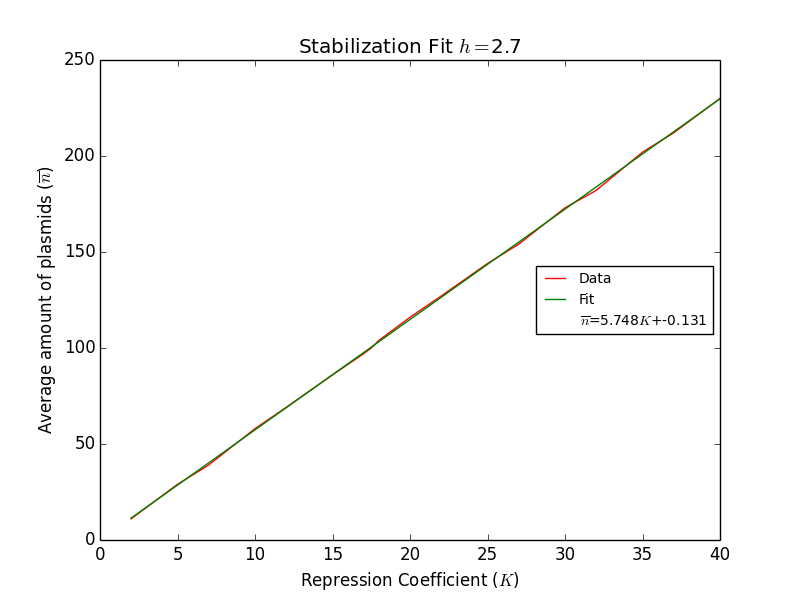
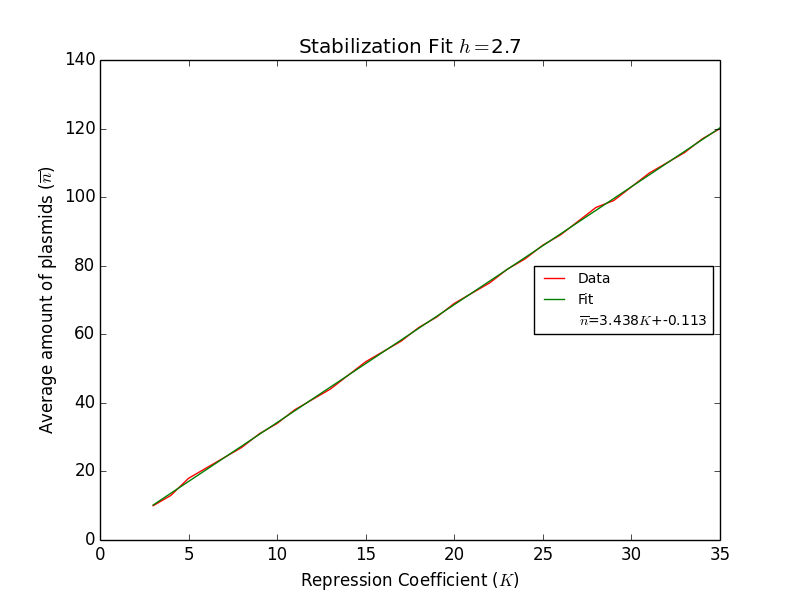
MoreHs

diff --git a/Stabilization/code_stable.py b/Stabilization/code_stable.py
@@ -132,7 +132,7 @@ def exe(inA, h, kA):
     avgpA = round(np.mean(pA))
 
     #Prints h, k and average of stabilization
-    print h,kA,avgpA
+    #print h,kA,avgpA
 
     #Records in .csv the data
     #First column K, second column average stabilization number
@@ -140,6 +140,7 @@ def exe(inA, h, kA):
     n = text_file.write(str(kA)+","+str(avgpA)+"\n")
     text_file.close()
 
+    """
     #Graph
     plt.plot(np.linspace(0,len(pA), num = len(pA)), pA, label = "$K$ = " + str(kA) +", $h$ = " + str(h))
     #Legends
@@ -151,13 +152,26 @@ def exe(inA, h, kA):
     plt.ylabel("Number of plasmids")
     plt.savefig("h"+str(h)+"/graph_" + str(kA)+ "_" + str(h) + ".png")
     plt.clf()
+    """
 
 #np.linspace(start,stop,hop)
-SS = np.linspace(51,55,5)
-print SS
+SS33 = np.linspace(3,50,48)
+print SS33
+SS37 = np.linspace(4,55,52)
+print SS37
+SS43 = np.linspace(5,60,56)
+print SS43
+SS47 = np.linspace(5,65,61)
+print SS47
+SS5 = np.linspace(5,70,66)
+print SS5
 
 #Execute code for same h for a given range of k
-for i in SS:
+#for i in SS:
     #Always start with 1 plasmids
     #exe(inA,h,kA)
-    exe(1,4,i)
+    #exe(1,2.7,i)
+
+#exe(1,5,5)
+#exe(1,5,6)
+#exe(1,5,70)

diff --git a/Stabilization/fit_KyN.py b/Stabilization/fit_KyN.py
@@ -74,7 +74,7 @@ plt.title("Slope ($m_{nK}$) vs Hill Coefficient ($h$)")
 plt.xlabel("Hill Coefficient ($h$)")
 plt.ylabel("Slope of graph $\overline{n}$ vs $K$ ($m_{nK}$)")
 plt.legend(loc=1)
-plt.text(4, 9, "$m_{nK}$="+str(round(Phm[0],3))+"$e^{(-h)}$+"+str(round(Phm[1],3)), bbox=dict(facecolor='cyan', alpha=0.2))
+plt.text(4, 5, "$m_{nK}$="+str(round(Phm[0],3))+"$e^{(-h)}$+"+str(round(Phm[1],3)), bbox=dict(facecolor='cyan', alpha=0.2))
 plt.savefig("StableGraphs/GeneralFit_m_vs_h.png")
 plt.clf()
 
